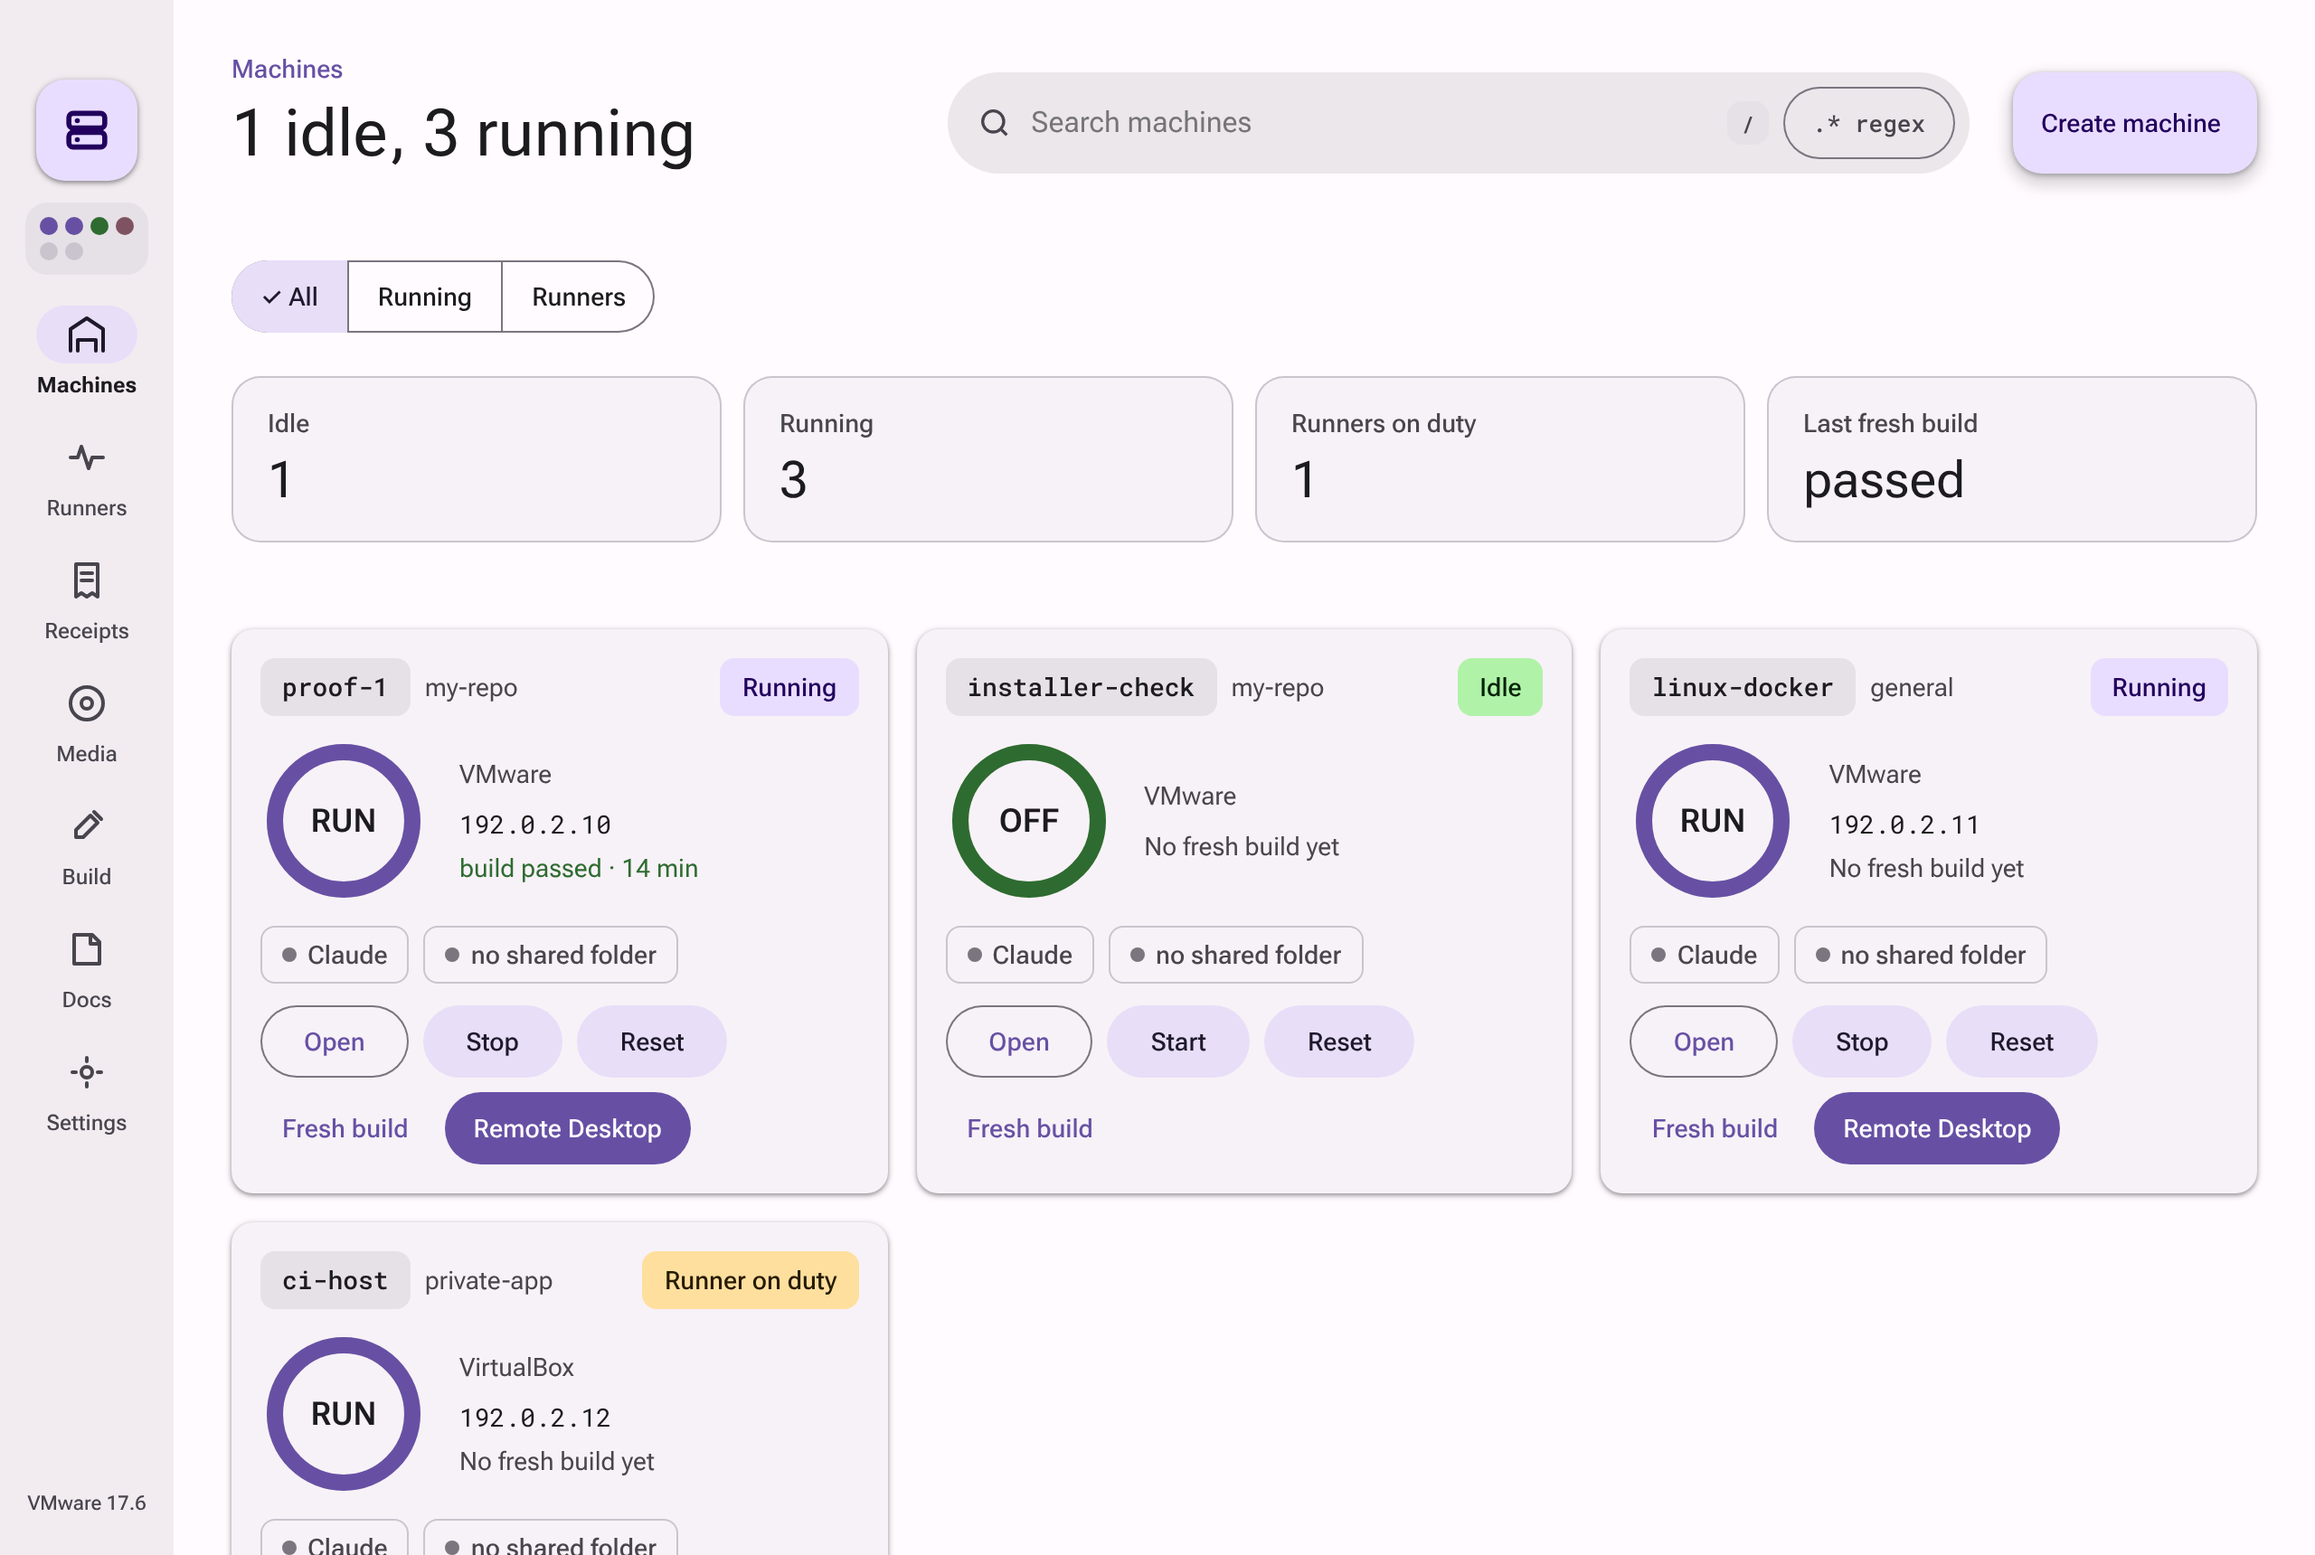
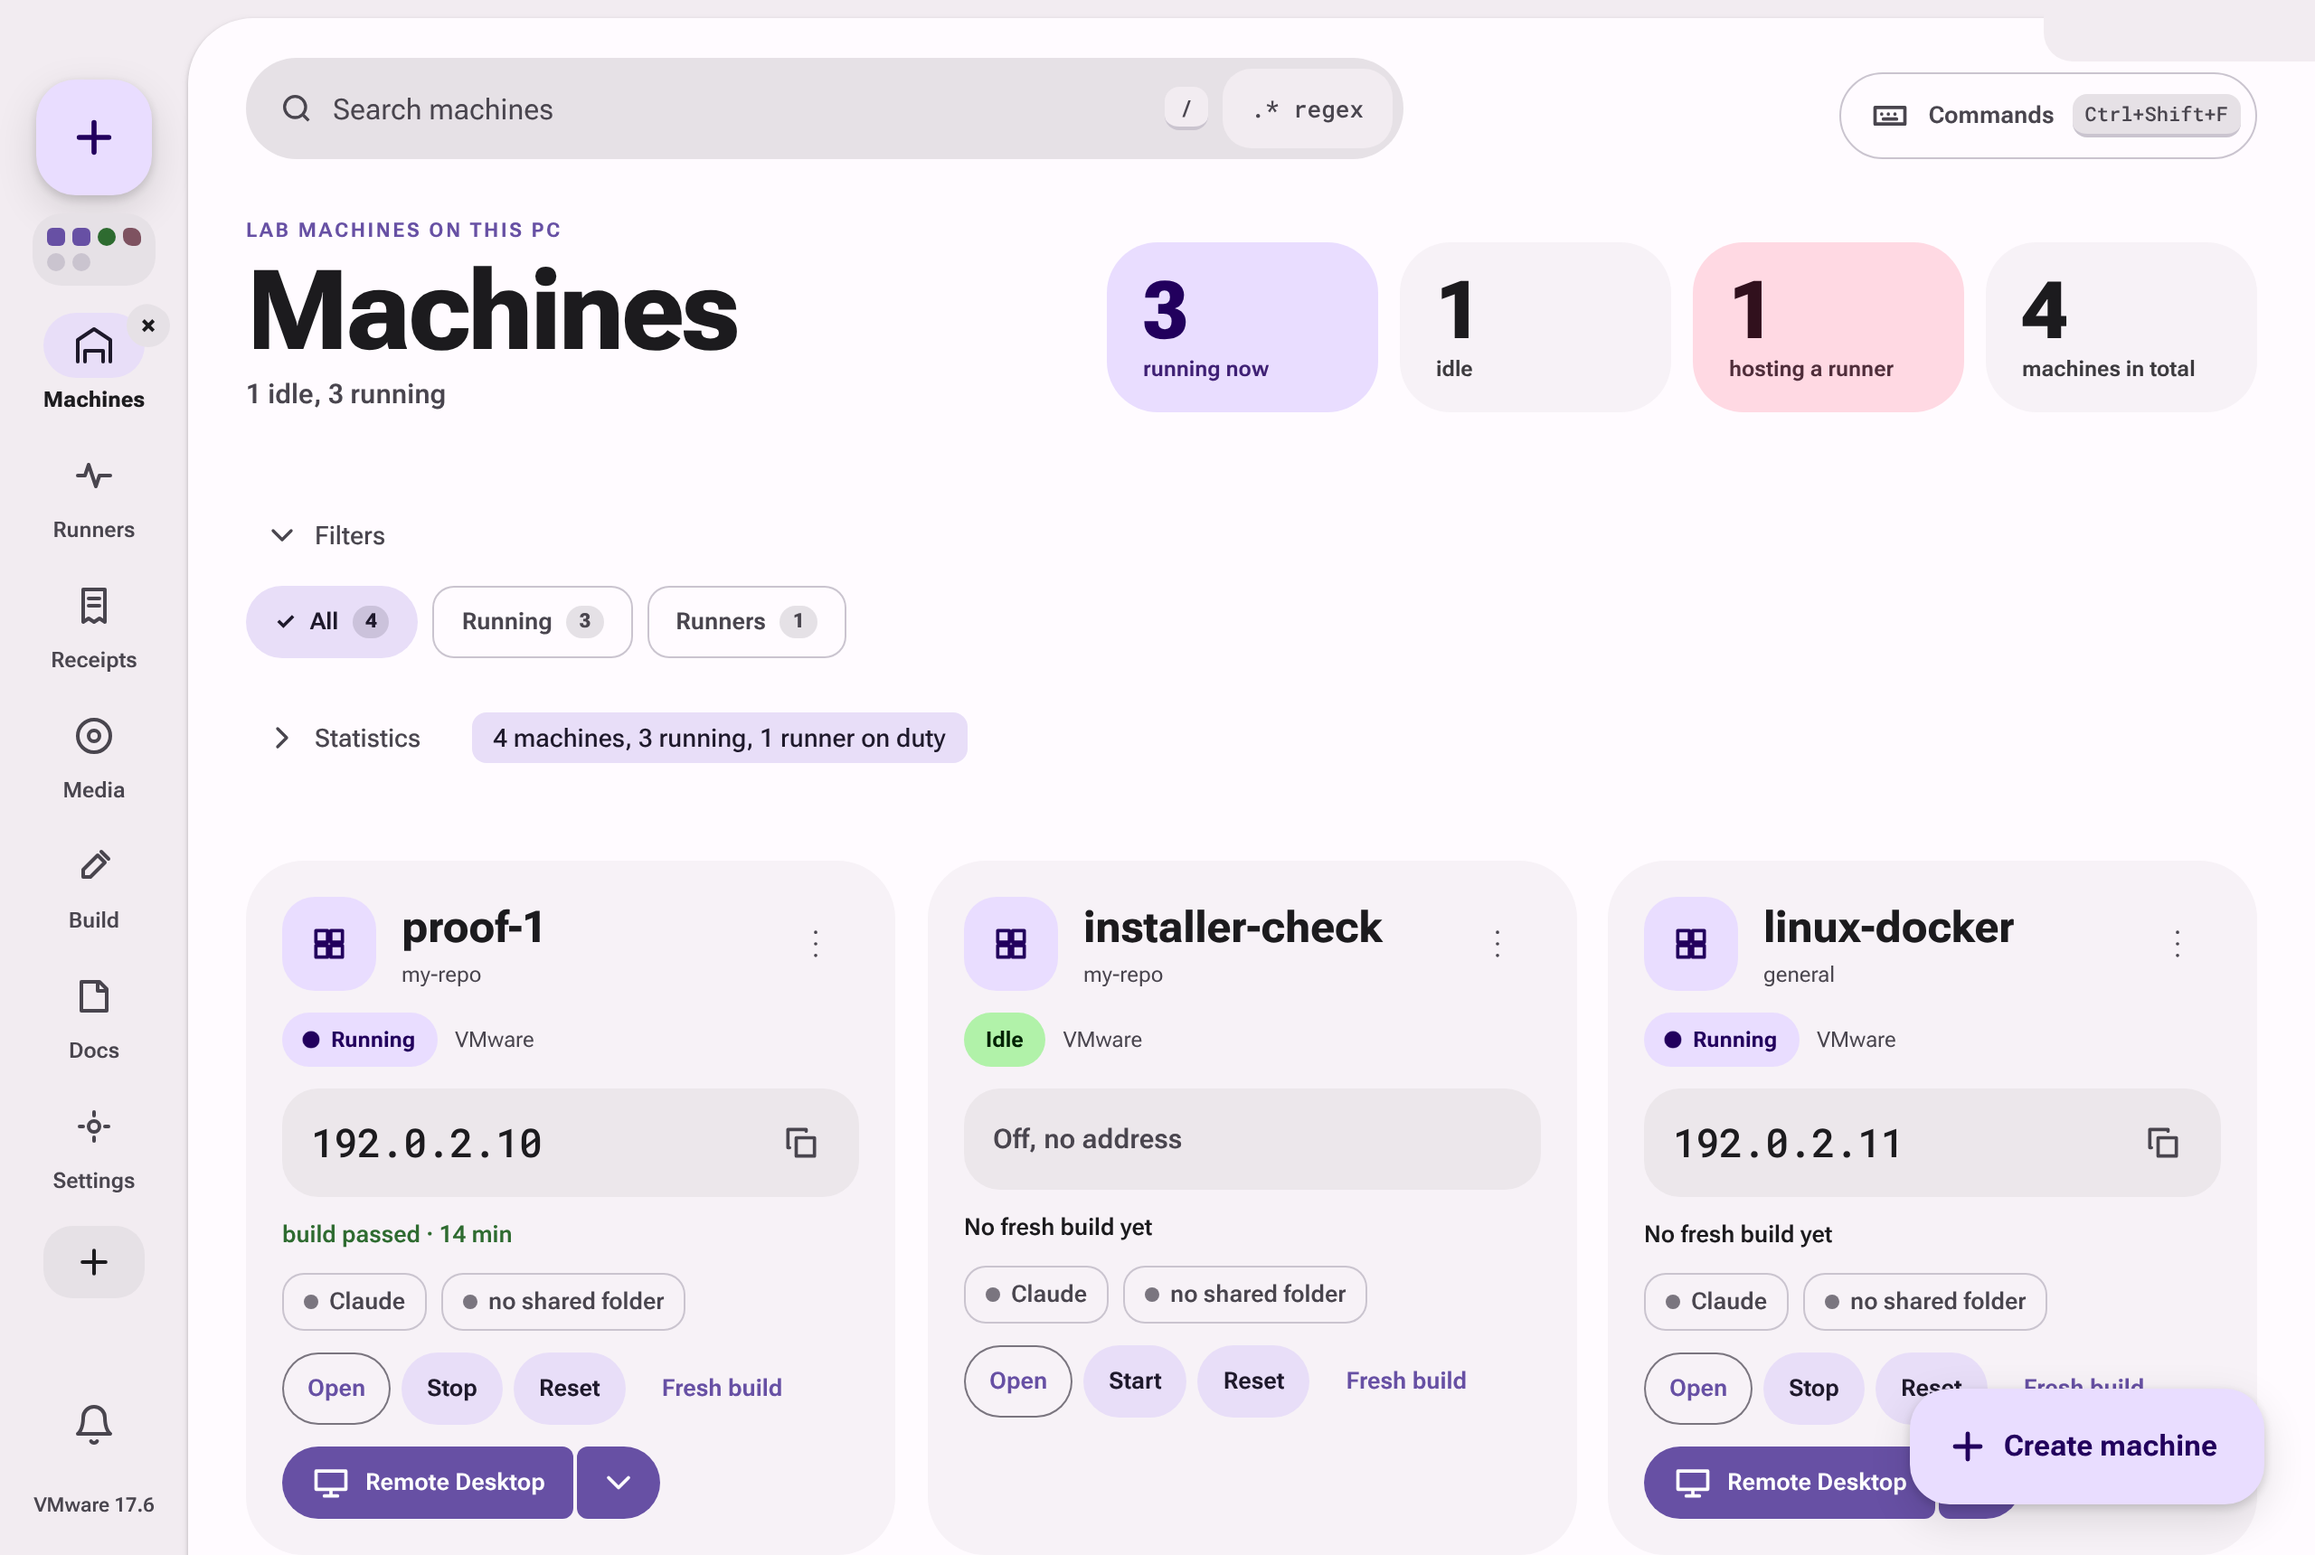
Refresh the README screenshots after the Expressive redesign
The README now shows the redesigned manager, its settings, the command
palette and the new documentation site home, all freshly captured. The
earlier screenshots moved to an archive with their dates and how they
were made, so nothing current pretends to be the old look or the other
way round.

README 換上 Expressive 重新設計之後新影嘅截圖：管理程式、設定、指令面板
同新文件網站首頁。舊截圖連日期同影法搬咗去封存，新舊唔會再撈亂。

Claude-Session: https://claude.ai/code/session_01XpdZ6B1VjcWk7cyp9Qfhbv

diff --git a/README.md b/README.md
@@ -28,9 +28,16 @@ self-hosted GitHub Actions runner for a **private** repository.
 
 ## Screenshots
 
-| Settings: appearance and personal vocabulary | Phone width: bottom navigation bar |
+| Settings: appearance, language, vocabulary, motion | Phone width: bottom navigation bar |
 | --- | --- |
-| ![Settings with theme, seed colour, motion and the personal vocabulary upload](docs/images/manager-settings.png) | ![The Machines screen at 390 px wide](docs/images/manager-phone.png) |
+| ![Settings with theme, seed colour, language, personal vocabulary and the animation editor](docs/images/manager-settings.png) | ![The Machines screen at 390 px wide](docs/images/manager-phone.png) |
+
+| Command palette (Ctrl+Shift+F) | Documentation site |
+| --- | --- |
+| ![The command palette with live theme results](docs/images/manager-palette.png) | ![The documentation site home page](docs/images/site-home.png) |
+
+All app screenshots are rendered with sample machines, not a live host. Earlier screenshots are in the
+[screenshot archive](docs/images/ARCHIVE.md).
 
 ## Fresh Windows: build and run
 

diff --git a/docs/images/ARCHIVE.md b/docs/images/ARCHIVE.md
@@ -1,0 +1,10 @@
+# Screenshot archive
+
+Earlier README screenshots, kept with where they came from. They show the first Material 3 look,
+before the Expressive redesign, and are not current.
+
+| File | Captured | What it shows | How it was made |
+| --- | --- | --- | --- |
+| [2026-11-20-manager-machines.png](archive/2026-11-20-manager-machines.png) | 2026-11-20 | Manager, Machines, light theme | Manager page rendered in Chromium with sample machines (documentation IP range), not a live host |
+| [2026-11-20-manager-phone.png](archive/2026-11-20-manager-phone.png) | 2026-11-20 | Manager at 390 px with the bottom navigation bar | Same method |
+| [2026-11-20-manager-settings.png](archive/2026-11-20-manager-settings.png) | 2026-11-20 | Manager Settings with appearance and personal vocabulary | Same method |
